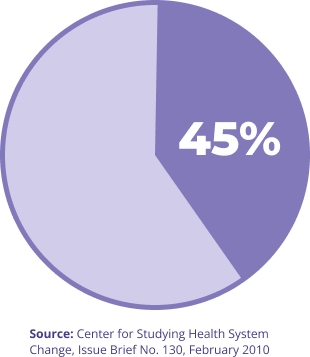
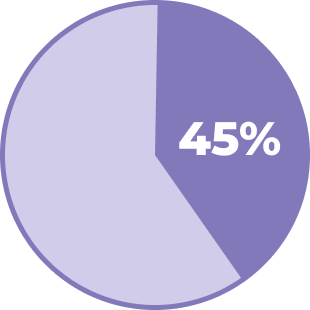
done

diff --git a/src/components/aboutUs/AboutComp.tsx b/src/components/aboutUs/AboutComp.tsx
@@ -119,7 +119,7 @@ const AboutComp = () => {
           alignItems="center"
           px={[5, 70]}
         >
-          <Image src="/chart.png" alt="chart" width="35%" />
+          <Image src="/chart.png" alt="chart" width={isTab ? "20%" : "20%"} />
           <Flex
             flexDir="column"
             mt={isTabView ? "5rem" : ""}
